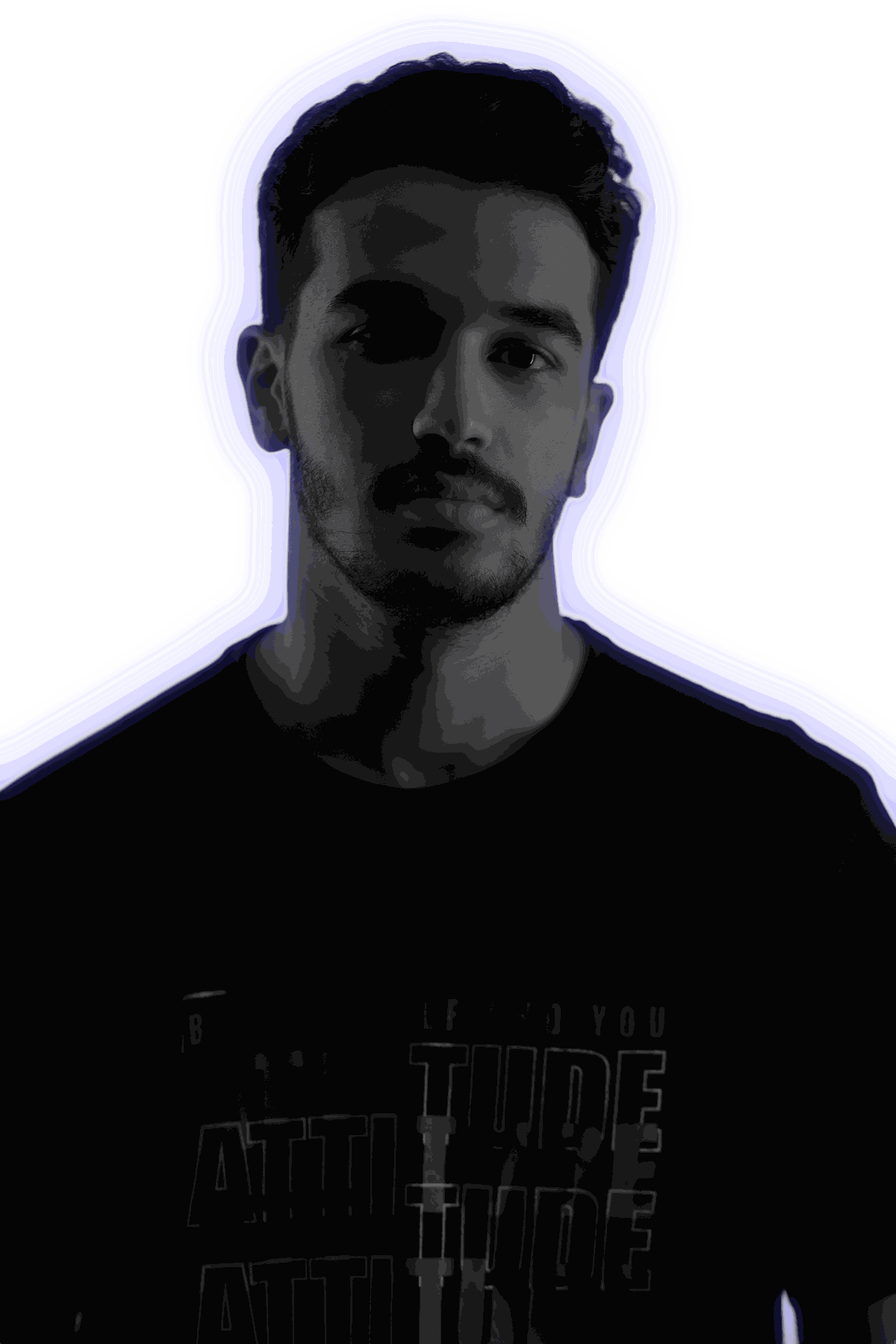
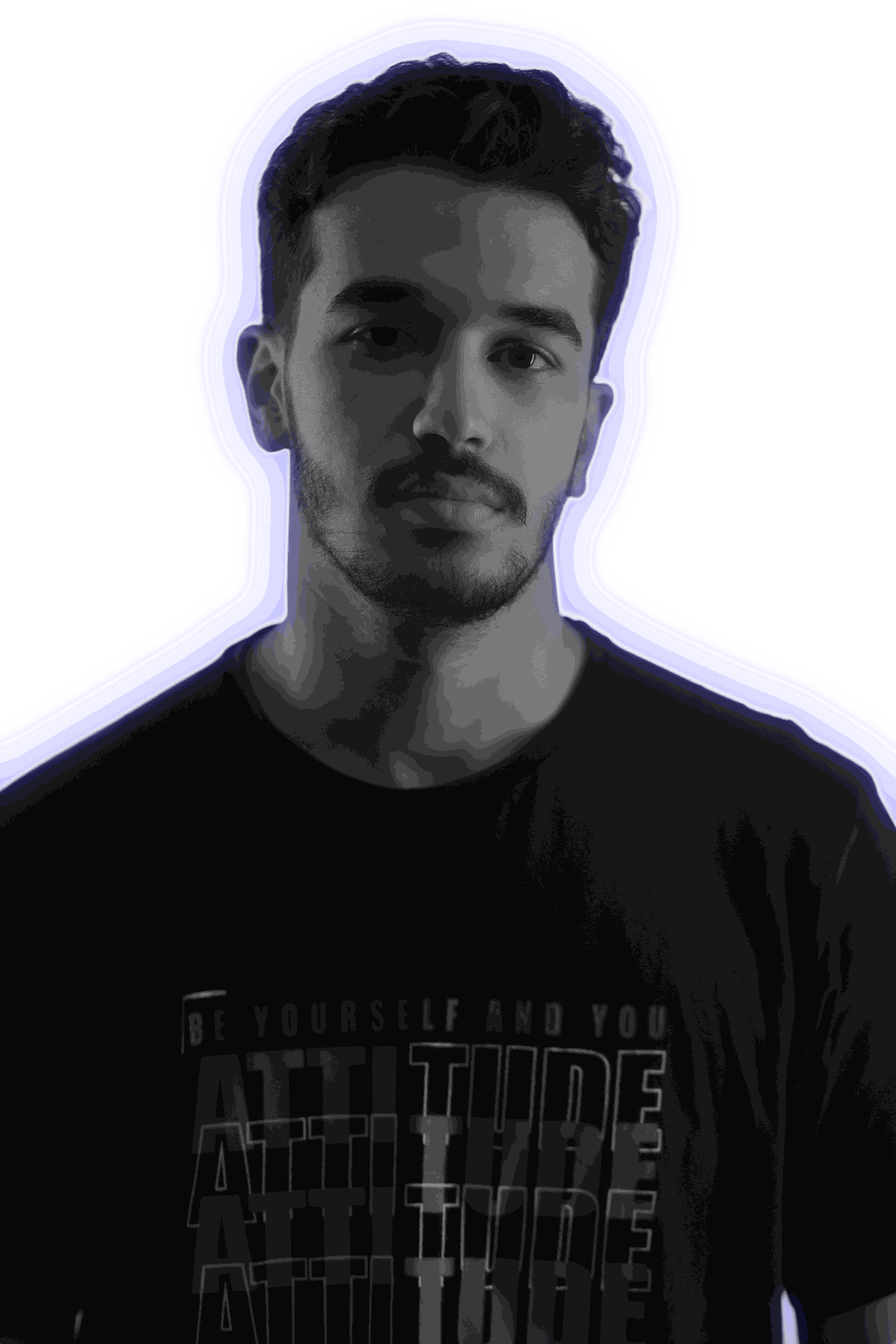
Preview: stats 150+ projects / 17+ clients, brighter portrait restored
Claude-Session: https://claude.ai/code/session_01Y8XmbK8w2zcHQaXEDeDyvM

diff --git a/ar.html b/ar.html
@@ -65,7 +65,7 @@ v.addEventListener('playing',start,{once:true});v.addEventListener('error',funct
 var p=v.play();if(p&&p.catch)p.catch(function(){start()});t.push(setTimeout(start,1400));t.push(setTimeout(go,6000));
 el.addEventListener('click',function(){go(true)});addEventListener('keydown',function(e){if(e.key==='Escape'||e.key==='Enter'||e.key===' ')go(true)});})();</script>
 <div class="cursor-halo" aria-hidden="true"></div><div class="scroll-progress" aria-hidden="true"></div><header><a class="brand" href="#home" aria-label="الصفحة الرئيسية — يوسف أبوقمر"><img src="assets/logo.png" alt=""><span>يوسف<br>أبوقمر<span class="dot">.</span></span></a><button class="menu-toggle" aria-label="فتح وإغلاق القائمة" aria-expanded="false" aria-controls="main-nav"><span>القائمة</span><span class="menu-icon" aria-hidden="true"><i></i><i></i></span></button><nav id="main-nav" aria-label="القائمة الرئيسية"><span class="nav-marker" aria-hidden="true"></span><a href="#work">الأعمال</a><a href="#who">عنّي</a><a href="#services">الخدمات</a><a href="#experience">الخبرات</a><a href="#contact">تواصل</a></nav><div class="contact-dropdown"><a class="lang-switch" href="./" hreflang="en" lang="en" aria-label="English version">EN</a><button class="nav-cta modern-action" id="talk-toggle" type="button" aria-expanded="false" aria-controls="talk-links">لنتحدث <span aria-hidden="true">↗</span></button><div id="talk-links" class="talk-panel" aria-label="تواصل مع يوسف" hidden></div></div></header>
-<main><section id="home" class="hero"><div class="editing-backdrop" aria-hidden="true"></div><div class="hero-top"><span class="location">من مصر · أعمل مع عملاء في كل مكان</span></div><div class="hero-composition"><div class="hero-copy"><div class="hero-identity"><p class="hero-role">مونتير <span>و</span> صانع محتوى</p><div class="hero-software" aria-label="برامج المونتاج"><span class="software-badge"><img src="assets/premiere-pro-original.svg" alt="" width="40" height="40"><span>Premiere Pro</span></span><span class="software-badge"><img src="assets/after-effects-original.svg" alt="" width="40" height="40"><span>After Effects</span></span></div></div><h1 class="snap-title" aria-label="لكل ثانية معنى."><span class="title-mask" aria-hidden="true"><span class="title-line">لكل</span></span><span class="title-mask" aria-hidden="true"><span class="title-line">ثانية</span></span><span class="title-mask accent" aria-hidden="true"><span class="title-line">معنى.</span></span></h1><div class="hero-stats" aria-label="أرقام"><div class="hero-stat" aria-label="أكثر من سنتين خبرة"><span class="stat-value" aria-hidden="true"><span data-count="2">٢</span><span>+</span></span><span class="stat-label">سنوات خبرة</span></div><div class="hero-stat" aria-label="أكثر من 200 مشروع"><span class="stat-value" aria-hidden="true"><span data-count="200">٢٠٠</span><span>+</span></span><span class="stat-label">مشروع</span></div><div class="hero-stat" aria-label="أكثر من 20 عميل"><span class="stat-value" aria-hidden="true"><span data-count="20">٢٠</span><span>+</span></span><span class="stat-label">عميل</span></div></div><div class="hero-bottom"><div class="hero-actions"><a class="cv-link" href="assets/Yousef-Abokamar-CV.pdf" download>تحميل السيرة الذاتية ↓</a></div><span class="tiny">اكتشف المزيد ↓</span></div></div><figure class="hero-portrait"><svg class="portrait-design" viewBox="0 0 500 700" fill="none" aria-hidden="true" focusable="false"><defs><linearGradient id="portrait-line" x1="20" y1="70" x2="480" y2="630" gradientUnits="userSpaceOnUse"><stop stop-color="#9e96ff" stop-opacity=".55"/><stop offset=".55" stop-color="#4c79ff" stop-opacity=".25"/><stop offset="1" stop-color="#766aff" stop-opacity="0"/></linearGradient></defs><g stroke="url(#portrait-line)" stroke-width="1.2" stroke-linecap="round"><path d="M32 132V86h48M420 86h48v46M32 560v46h48"/><path d="M452 198v286" stroke-dasharray="1 13"/><path d="M442 214h20M442 284h20M442 354h20M442 424h20"/><path d="M38 224h20M48 214v20M404 548h20M414 538v20"/><path d="M20 490h56M32 480v20M48 484v12M64 484v12"/><path d="M372 172h74"/></g><circle cx="452" cy="172" r="3" fill="#766aff" fill-opacity=".5"/><circle cx="48" cy="374" r="2" fill="#72a2ff" fill-opacity=".4"/></svg><picture><source srcset="assets/portrait-yousef.webp" type="image/webp"><img src="assets/portrait-yousef.png" alt="صورة يوسف أبوقمر" width="1200" height="1800" fetchpriority="high" decoding="async"></picture></figure></div><section id="who" class="hero-intro" aria-labelledby="intro-title"><div class="intro-body"><span class="eyebrow">من أنا</span><h2 id="intro-title" class="intro-title">يوسف. <em>مونتير فيديو.</em></h2><p class="intro-text">أنا <strong>يوسف أبوقمر</strong>، مونتير فيديو من مصر بخلفية معمارية. أعمل منذ <strong>أكثر من سنتين</strong> على مونتاج الريلز والفيديوهات الدعائية ومحتوى البراندات، مع <strong>Sorah Media Solutions</strong> ومع عملاء مباشرةً كمستقل.</p><p class="intro-text">وصل شغلي لبراندات في <strong>السعودية والإمارات والبحرين وعُمان</strong>، في مجالات العقارات والطب والرياضة والتكنولوجيا والفعاليات. وهذه الخلفية تنعكس على طريقة المونتاج: تكوين واضح، وإيقاع نظيف، وقصة تناسب كل براند.</p><div class="intro-row"><span class="intro-label">الأسواق</span><ul class="intro-markets"><li>السعودية</li><li>الإمارات</li><li>البحرين</li><li>عُمان</li><li>مصر</li></ul></div></div></section><div class="filmstrip landscape-filmstrip" role="region" aria-label="عرض الفيديوهات"><div class="filmstrip-track"></div></div></section>
+<main><section id="home" class="hero"><div class="editing-backdrop" aria-hidden="true"></div><div class="hero-top"><span class="location">من مصر · أعمل مع عملاء في كل مكان</span></div><div class="hero-composition"><div class="hero-copy"><div class="hero-identity"><p class="hero-role">مونتير <span>و</span> صانع محتوى</p><div class="hero-software" aria-label="برامج المونتاج"><span class="software-badge"><img src="assets/premiere-pro-original.svg" alt="" width="40" height="40"><span>Premiere Pro</span></span><span class="software-badge"><img src="assets/after-effects-original.svg" alt="" width="40" height="40"><span>After Effects</span></span></div></div><h1 class="snap-title" aria-label="لكل ثانية معنى."><span class="title-mask" aria-hidden="true"><span class="title-line">لكل</span></span><span class="title-mask" aria-hidden="true"><span class="title-line">ثانية</span></span><span class="title-mask accent" aria-hidden="true"><span class="title-line">معنى.</span></span></h1><div class="hero-stats" aria-label="أرقام"><div class="hero-stat" aria-label="أكثر من سنتين خبرة"><span class="stat-value" aria-hidden="true"><span data-count="2">٢</span><span>+</span></span><span class="stat-label">سنوات خبرة</span></div><div class="hero-stat" aria-label="أكثر من 150 مشروع"><span class="stat-value" aria-hidden="true"><span data-count="150">١٥٠</span><span>+</span></span><span class="stat-label">مشروع</span></div><div class="hero-stat" aria-label="أكثر من 17 عميل"><span class="stat-value" aria-hidden="true"><span data-count="17">١٧</span><span>+</span></span><span class="stat-label">عميل</span></div></div><div class="hero-bottom"><div class="hero-actions"><a class="cv-link" href="assets/Yousef-Abokamar-CV.pdf" download>تحميل السيرة الذاتية ↓</a></div><span class="tiny">اكتشف المزيد ↓</span></div></div><figure class="hero-portrait"><svg class="portrait-design" viewBox="0 0 500 700" fill="none" aria-hidden="true" focusable="false"><defs><linearGradient id="portrait-line" x1="20" y1="70" x2="480" y2="630" gradientUnits="userSpaceOnUse"><stop stop-color="#9e96ff" stop-opacity=".55"/><stop offset=".55" stop-color="#4c79ff" stop-opacity=".25"/><stop offset="1" stop-color="#766aff" stop-opacity="0"/></linearGradient></defs><g stroke="url(#portrait-line)" stroke-width="1.2" stroke-linecap="round"><path d="M32 132V86h48M420 86h48v46M32 560v46h48"/><path d="M452 198v286" stroke-dasharray="1 13"/><path d="M442 214h20M442 284h20M442 354h20M442 424h20"/><path d="M38 224h20M48 214v20M404 548h20M414 538v20"/><path d="M20 490h56M32 480v20M48 484v12M64 484v12"/><path d="M372 172h74"/></g><circle cx="452" cy="172" r="3" fill="#766aff" fill-opacity=".5"/><circle cx="48" cy="374" r="2" fill="#72a2ff" fill-opacity=".4"/></svg><picture><source srcset="assets/portrait-yousef.webp" type="image/webp"><img src="assets/portrait-yousef.png" alt="صورة يوسف أبوقمر" width="1200" height="1800" fetchpriority="high" decoding="async"></picture></figure></div><section id="who" class="hero-intro" aria-labelledby="intro-title"><div class="intro-body"><span class="eyebrow">من أنا</span><h2 id="intro-title" class="intro-title">يوسف. <em>مونتير فيديو.</em></h2><p class="intro-text">أنا <strong>يوسف أبوقمر</strong>، مونتير فيديو من مصر بخلفية معمارية. أعمل منذ <strong>أكثر من سنتين</strong> على مونتاج الريلز والفيديوهات الدعائية ومحتوى البراندات، مع <strong>Sorah Media Solutions</strong> ومع عملاء مباشرةً كمستقل.</p><p class="intro-text">وصل شغلي لبراندات في <strong>السعودية والإمارات والبحرين وعُمان</strong>، في مجالات العقارات والطب والرياضة والتكنولوجيا والفعاليات. وهذه الخلفية تنعكس على طريقة المونتاج: تكوين واضح، وإيقاع نظيف، وقصة تناسب كل براند.</p><div class="intro-row"><span class="intro-label">الأسواق</span><ul class="intro-markets"><li>السعودية</li><li>الإمارات</li><li>البحرين</li><li>عُمان</li><li>مصر</li></ul></div></div></section><div class="filmstrip landscape-filmstrip" role="region" aria-label="عرض الفيديوهات"><div class="filmstrip-track"></div></div></section>
 <div class="ticker" tabindex="0" aria-label="شريط المهارات. اسحب للاستكشاف."><div class="ticker-track"><span class="strip-hint">اسحب للاستكشاف ↔</span><span>سرد القصص</span><i class="ticker-symbol" aria-hidden="true"><img src="assets/logo.png" alt="" width="24" height="31"></i><span>مونتاج الفيديو</span><i class="ticker-symbol" aria-hidden="true"><img src="assets/logo.png" alt="" width="24" height="31"></i><span>موشن جرافيك</span><i class="ticker-symbol" aria-hidden="true"><img src="assets/logo.png" alt="" width="24" height="31"></i><span>صناعة المحتوى</span><i class="ticker-symbol" aria-hidden="true"><img src="assets/logo.png" alt="" width="24" height="31"></i><span aria-hidden="true">سرد القصص</span><i class="ticker-symbol" aria-hidden="true"><img src="assets/logo.png" alt="" width="24" height="31"></i><span aria-hidden="true">مونتاج الفيديو</span><i class="ticker-symbol" aria-hidden="true"><img src="assets/logo.png" alt="" width="24" height="31"></i><span aria-hidden="true">موشن جرافيك</span><i class="ticker-symbol" aria-hidden="true"><img src="assets/logo.png" alt="" width="24" height="31"></i><span aria-hidden="true">صناعة المحتوى</span><i class="ticker-symbol" aria-hidden="true"><img src="assets/logo.png" alt="" width="24" height="31"></i></div></div>
 <section id="work" class="section"><div class="editing-backdrop" aria-hidden="true"></div><div class="section-head"><div><span class="eyebrow">٠١ / أعمال مختارة</span><h2>صُنعت<br><em>لتُؤثّر.</em></h2></div><p>مجموعة من ريلز المحتوى والأفلام الدعائية والقصص المرئية.</p></div><div class="filters" aria-label="تصفية حسب النوع"><button class="active" data-type="All" aria-pressed="true">كل الأعمال</button><button data-type="Content Reels" aria-pressed="false">ريلز محتوى</button><button data-type="Promo Reels" aria-pressed="false">ريلز دعائية</button><button data-type="Promo Videos" aria-pressed="false">فيديوهات دعائية</button><label class="select-label">المجال <select id="category"><option value="All">كل المجالات</option></select></label></div><div class="work-controls"><label class="search-label">بحث <input type="search" id="work-search" placeholder="مشروع أو مجال…"></label><div class="view-controls" aria-label="طريقة العرض"><button id="grid-view" aria-pressed="true">شبكة ▦</button><button id="cinema-view" aria-pressed="false">سينما ▤</button></div></div><p id="results" class="tiny" aria-live="polite"></p><div id="category-jumps" class="category-jumps" aria-label="الانتقال لمجال"></div><div id="projects" class="projects"></div><noscript><ul class="noscript-work"><li><a href="assets/videos/1LARTjoNPa0jROnTMwBOfv8Z0u_AVnirV.mp4">DAR / Markland</a> — عقارات / فيديوهات دعائية</li><li><a href="assets/videos/1KIiBjM488M53fspq0vwLWPE-s2pa7otE.mp4">Engineering Graduation 2026</a> — فعاليات / فيديوهات دعائية</li><li><a href="assets/videos/1UfgcLgQG2W5bP_xNQP_wAmauaPER1eRB.mp4">I Plus</a> — رياضة / فيديوهات دعائية</li><li><a href="assets/videos/1nQfLRsGVL9XhNOq-fnRUfWLQmrEqlZcd.mp4">Interior Design / 01</a> — تصميم داخلي / ريلز محتوى</li><li><a href="assets/videos/1RePahRdkRGmkz-tcddZugPKxt6pxm3wd.mp4">Interior Design / 02</a> — تصميم داخلي / ريلز محتوى</li><li><a href="assets/videos/12omd3GJOGJJWhv8olYMtmvOtHIImv4ya.mp4">Narodne / 01</a> — تجاري / ريلز محتوى</li><li><a href="assets/videos/1HqcCV-P8kXwOggqVXdS9lxTu46S0yflU.mp4">Narodne / 02</a> — تجاري / ريلز محتوى</li><li><a href="assets/videos/18zJ1akewh5r2xSdIyM2W7405MKH1mldT.mp4">Medical Content / 01</a> — طبي / ريلز محتوى</li><li><a href="assets/videos/1MEuWs8MWK9OQE3UYNYU1B0_pwFkssYOL.mp4">Medical Content / 02</a> — طبي / ريلز محتوى</li><li><a href="assets/videos/1ndwIJoAUl-D1sjy6vWg8xyu-3K2oHehF.mp4">Dwaa</a> — طبي / ريلز محتوى</li><li><a href="assets/videos/11zYBEThEEDVteeRH6sZKDgzYw1cB2mqS.mp4">Tech Content</a> — تكنولوجيا / ريلز محتوى</li><li><a href="assets/videos/1yk7F5qSYZdy7hlmoKAMAB0KCu9Gt6IXJ.mp4">Kidix AI</a> — تكنولوجيا / ريلز محتوى</li><li><a href="assets/videos/1oPuGB0vPawAL86W-TY24Jzd-2636JDHs.mp4">Sports Promo / 01</a> — رياضة / ريلز دعائية</li><li><a href="assets/videos/1-C7PYZnIoM0lXCxbbrrW8rW8nS6rAEiw.mp4">Sports Promo / 02</a> — رياضة / ريلز دعائية</li><li><a href="assets/videos/1JNkq8a8tr1m-Z8V2leMyC213tG8tl66b.mp4">Stay Tuned</a> — تيزر / ريلز دعائية</li><li><a href="assets/videos/15PQvPuV9mxQ52AgFZVeaMwSg-xlCzPTL.mp4">El Salam</a> — فعاليات / فيديوهات دعائية</li><li><a href="assets/videos/1edh3CmXxmfi974iShhm6viDYmKG0mUS-.mp4">Event Film</a> — فعاليات / فيديوهات دعائية</li><li><a href="assets/videos/1Nyc3ADA3s9v55lXnT1uoV91zrHB56dDq.mp4">YTB A.E.</a> — فعاليات / فيديوهات دعائية</li><li><a href="assets/videos/1oGehzqQjlYaaojvVrpFkjyjUUVh8LKMB.mp4">Noll</a> — عقارات / فيديوهات دعائية</li><li><a href="assets/videos/1ahF5SVMppzt0v9GGR7YdTpb0YgdVgSqM.mp4">Shaqraa Project</a> — عقارات / فيديوهات دعائية</li></ul></noscript></section>
 

diff --git a/index.html b/index.html
@@ -65,7 +65,7 @@ v.addEventListener('playing',start,{once:true});v.addEventListener('error',funct
 var p=v.play();if(p&&p.catch)p.catch(function(){start()});t.push(setTimeout(start,1400));t.push(setTimeout(go,6000));
 el.addEventListener('click',function(){go(true)});addEventListener('keydown',function(e){if(e.key==='Escape'||e.key==='Enter'||e.key===' ')go(true)});})();</script>
 <div class="cursor-halo" aria-hidden="true"></div><div class="scroll-progress" aria-hidden="true"></div><header><a class="brand" href="#home" aria-label="Yousef Abokamar home"><img src="assets/logo.png" alt=""><span>YOUSEF<br>ABOKAMAR<span class="dot">.</span></span></a><button class="menu-toggle" aria-label="Toggle navigation" aria-expanded="false" aria-controls="main-nav"><span>Menu</span><span class="menu-icon" aria-hidden="true"><i></i><i></i></span></button><nav id="main-nav" aria-label="Main navigation"><span class="nav-marker" aria-hidden="true"></span><a href="#work">Work</a><a href="#who">About</a><a href="#services">Services</a><a href="#experience">Experience</a><a href="#contact">Contact</a></nav><div class="contact-dropdown"><a class="lang-switch lang-switch-ar" href="ar.html" hreflang="ar" lang="ar" aria-label="النسخة العربية">عربي</a><button class="nav-cta modern-action" id="talk-toggle" type="button" aria-expanded="false" aria-controls="talk-links">Let’s talk <span aria-hidden="true">↗</span></button><div id="talk-links" class="talk-panel" aria-label="Contact Yousef" hidden></div></div></header>
-<main><section id="home" class="hero"><div class="editing-backdrop" aria-hidden="true"></div><div class="hero-top"><span class="location">BASED IN EGYPT · WORKING EVERYWHERE</span></div><div class="hero-composition"><div class="hero-copy"><div class="hero-identity"><p class="hero-role">Video Editor <span>&</span> Content Creator</p><div class="hero-software" aria-label="Editing tools"><span class="software-badge"><img src="assets/premiere-pro-original.svg" alt="" width="40" height="40"><span>Premiere Pro</span></span><span class="software-badge"><img src="assets/after-effects-original.svg" alt="" width="40" height="40"><span>After Effects</span></span></div></div><h1 class="snap-title" aria-label="Every Second Matters."><span class="title-mask" aria-hidden="true"><span class="title-line">Every</span></span><span class="title-mask" aria-hidden="true"><span class="title-line">Second</span></span><span class="title-mask accent" aria-hidden="true"><span class="title-line">Matters.</span></span></h1><div class="hero-stats" aria-label="Career highlights"><div class="hero-stat" aria-label="More than 2 years of experience"><span class="stat-value" aria-hidden="true"><span data-count="2">2</span><span>+</span></span><span class="stat-label">Years of experience</span></div><div class="hero-stat" aria-label="More than 200 projects"><span class="stat-value" aria-hidden="true"><span data-count="200">200</span><span>+</span></span><span class="stat-label">Projects</span></div><div class="hero-stat" aria-label="More than 20 clients"><span class="stat-value" aria-hidden="true"><span data-count="20">20</span><span>+</span></span><span class="stat-label">Clients</span></div></div><div class="hero-bottom"><div class="hero-actions"><a class="cv-link" href="assets/Yousef-Abokamar-CV.pdf" download>Download CV ↓</a></div><span class="tiny">SCROLL TO DISCOVER ↓</span></div></div><figure class="hero-portrait"><svg class="portrait-design" viewBox="0 0 500 700" fill="none" aria-hidden="true" focusable="false"><defs><linearGradient id="portrait-line" x1="20" y1="70" x2="480" y2="630" gradientUnits="userSpaceOnUse"><stop stop-color="#9e96ff" stop-opacity=".55"/><stop offset=".55" stop-color="#4c79ff" stop-opacity=".25"/><stop offset="1" stop-color="#766aff" stop-opacity="0"/></linearGradient></defs><g stroke="url(#portrait-line)" stroke-width="1.2" stroke-linecap="round"><path d="M32 132V86h48M420 86h48v46M32 560v46h48"/><path d="M452 198v286" stroke-dasharray="1 13"/><path d="M442 214h20M442 284h20M442 354h20M442 424h20"/><path d="M38 224h20M48 214v20M404 548h20M414 538v20"/><path d="M20 490h56M32 480v20M48 484v12M64 484v12"/><path d="M372 172h74"/></g><circle cx="452" cy="172" r="3" fill="#766aff" fill-opacity=".5"/><circle cx="48" cy="374" r="2" fill="#72a2ff" fill-opacity=".4"/></svg><picture><source srcset="assets/portrait-yousef.webp" type="image/webp"><img src="assets/portrait-yousef.png" alt="Portrait of Yousef Abokamar" width="1200" height="1800" fetchpriority="high" decoding="async"></picture></figure></div><section id="who" class="hero-intro" aria-labelledby="intro-title"><div class="intro-body"><span class="eyebrow">WHO I AM</span><h2 id="intro-title" class="intro-title">Yousef. <em>Video editor.</em></h2><p class="intro-text">I’m <strong>Yousef Abokamar</strong>, a video editor from Egypt with a background in architecture. For more than <strong>two years</strong> I’ve been editing social reels, promotional videos and brand content, working with <strong>Sorah Media Solutions</strong> and with clients directly as a freelancer.</p><p class="intro-text">My work has reached brands in <strong>Saudi Arabia, the UAE, Bahrain and Oman</strong>, across real estate, medical, sports, tech and events. That background shapes how I edit: clear composition, clean rhythm and a story that fits each brand.</p><div class="intro-row"><span class="intro-label">MARKETS</span><ul class="intro-markets"><li>Saudi Arabia</li><li>UAE</li><li>Bahrain</li><li>Oman</li><li>Egypt</li></ul></div></div></section><div class="filmstrip landscape-filmstrip" role="region" aria-label="Landscape video showcase"><div class="filmstrip-track"></div></div></section>
+<main><section id="home" class="hero"><div class="editing-backdrop" aria-hidden="true"></div><div class="hero-top"><span class="location">BASED IN EGYPT · WORKING EVERYWHERE</span></div><div class="hero-composition"><div class="hero-copy"><div class="hero-identity"><p class="hero-role">Video Editor <span>&</span> Content Creator</p><div class="hero-software" aria-label="Editing tools"><span class="software-badge"><img src="assets/premiere-pro-original.svg" alt="" width="40" height="40"><span>Premiere Pro</span></span><span class="software-badge"><img src="assets/after-effects-original.svg" alt="" width="40" height="40"><span>After Effects</span></span></div></div><h1 class="snap-title" aria-label="Every Second Matters."><span class="title-mask" aria-hidden="true"><span class="title-line">Every</span></span><span class="title-mask" aria-hidden="true"><span class="title-line">Second</span></span><span class="title-mask accent" aria-hidden="true"><span class="title-line">Matters.</span></span></h1><div class="hero-stats" aria-label="Career highlights"><div class="hero-stat" aria-label="More than 2 years of experience"><span class="stat-value" aria-hidden="true"><span data-count="2">2</span><span>+</span></span><span class="stat-label">Years of experience</span></div><div class="hero-stat" aria-label="More than 150 projects"><span class="stat-value" aria-hidden="true"><span data-count="150">150</span><span>+</span></span><span class="stat-label">Projects</span></div><div class="hero-stat" aria-label="More than 17 clients"><span class="stat-value" aria-hidden="true"><span data-count="17">17</span><span>+</span></span><span class="stat-label">Clients</span></div></div><div class="hero-bottom"><div class="hero-actions"><a class="cv-link" href="assets/Yousef-Abokamar-CV.pdf" download>Download CV ↓</a></div><span class="tiny">SCROLL TO DISCOVER ↓</span></div></div><figure class="hero-portrait"><svg class="portrait-design" viewBox="0 0 500 700" fill="none" aria-hidden="true" focusable="false"><defs><linearGradient id="portrait-line" x1="20" y1="70" x2="480" y2="630" gradientUnits="userSpaceOnUse"><stop stop-color="#9e96ff" stop-opacity=".55"/><stop offset=".55" stop-color="#4c79ff" stop-opacity=".25"/><stop offset="1" stop-color="#766aff" stop-opacity="0"/></linearGradient></defs><g stroke="url(#portrait-line)" stroke-width="1.2" stroke-linecap="round"><path d="M32 132V86h48M420 86h48v46M32 560v46h48"/><path d="M452 198v286" stroke-dasharray="1 13"/><path d="M442 214h20M442 284h20M442 354h20M442 424h20"/><path d="M38 224h20M48 214v20M404 548h20M414 538v20"/><path d="M20 490h56M32 480v20M48 484v12M64 484v12"/><path d="M372 172h74"/></g><circle cx="452" cy="172" r="3" fill="#766aff" fill-opacity=".5"/><circle cx="48" cy="374" r="2" fill="#72a2ff" fill-opacity=".4"/></svg><picture><source srcset="assets/portrait-yousef.webp" type="image/webp"><img src="assets/portrait-yousef.png" alt="Portrait of Yousef Abokamar" width="1200" height="1800" fetchpriority="high" decoding="async"></picture></figure></div><section id="who" class="hero-intro" aria-labelledby="intro-title"><div class="intro-body"><span class="eyebrow">WHO I AM</span><h2 id="intro-title" class="intro-title">Yousef. <em>Video editor.</em></h2><p class="intro-text">I’m <strong>Yousef Abokamar</strong>, a video editor from Egypt with a background in architecture. For more than <strong>two years</strong> I’ve been editing social reels, promotional videos and brand content, working with <strong>Sorah Media Solutions</strong> and with clients directly as a freelancer.</p><p class="intro-text">My work has reached brands in <strong>Saudi Arabia, the UAE, Bahrain and Oman</strong>, across real estate, medical, sports, tech and events. That background shapes how I edit: clear composition, clean rhythm and a story that fits each brand.</p><div class="intro-row"><span class="intro-label">MARKETS</span><ul class="intro-markets"><li>Saudi Arabia</li><li>UAE</li><li>Bahrain</li><li>Oman</li><li>Egypt</li></ul></div></div></section><div class="filmstrip landscape-filmstrip" role="region" aria-label="Landscape video showcase"><div class="filmstrip-track"></div></div></section>
 <div class="ticker" tabindex="0" aria-label="Continuously moving skills strip. Drag to explore."><div class="ticker-track"><span class="strip-hint">DRAG TO EXPLORE ↔</span><span>STORYTELLING</span><i class="ticker-symbol" aria-hidden="true"><img src="assets/logo.png" alt="" width="24" height="31"></i><span>VIDEO EDITING</span><i class="ticker-symbol" aria-hidden="true"><img src="assets/logo.png" alt="" width="24" height="31"></i><span>MOTION GRAPHICS</span><i class="ticker-symbol" aria-hidden="true"><img src="assets/logo.png" alt="" width="24" height="31"></i><span>CONTENT CREATION</span><i class="ticker-symbol" aria-hidden="true"><img src="assets/logo.png" alt="" width="24" height="31"></i><span aria-hidden="true">STORYTELLING</span><i class="ticker-symbol" aria-hidden="true"><img src="assets/logo.png" alt="" width="24" height="31"></i><span aria-hidden="true">VIDEO EDITING</span><i class="ticker-symbol" aria-hidden="true"><img src="assets/logo.png" alt="" width="24" height="31"></i><span aria-hidden="true">MOTION GRAPHICS</span><i class="ticker-symbol" aria-hidden="true"><img src="assets/logo.png" alt="" width="24" height="31"></i><span aria-hidden="true">CONTENT CREATION</span><i class="ticker-symbol" aria-hidden="true"><img src="assets/logo.png" alt="" width="24" height="31"></i></div></div>
 <section id="work" class="section"><div class="editing-backdrop" aria-hidden="true"></div><div class="section-head"><div><span class="eyebrow">01 / SELECTED WORK</span><h2>Made to be<br><em>watched.</em></h2></div><p>A collection of content reels, promotional films and visual stories.</p></div><div class="filters" aria-label="Filter by format"><button class="active" data-type="All" aria-pressed="true">All work</button><button data-type="Content Reels" aria-pressed="false">Content reels</button><button data-type="Promo Reels" aria-pressed="false">Promo reels</button><button data-type="Promo Videos" aria-pressed="false">Promo videos</button><label class="select-label">Industry <select id="category"><option value="All">All industries</option></select></label></div><div class="work-controls"><label class="search-label">Search work <input type="search" id="work-search" placeholder="Project or industry…"></label><div class="view-controls" aria-label="Project layout"><button id="grid-view" aria-pressed="true">Grid ▦</button><button id="cinema-view" aria-pressed="false">Cinema ▤</button></div></div><p id="results" class="tiny" aria-live="polite"></p><div id="category-jumps" class="category-jumps" aria-label="Jump to work category"></div><div id="projects" class="projects"></div><noscript><ul class="noscript-work"><li><a href="assets/videos/1LARTjoNPa0jROnTMwBOfv8Z0u_AVnirV.mp4">DAR / Markland</a> — Real Estate / Promo Videos</li><li><a href="assets/videos/1KIiBjM488M53fspq0vwLWPE-s2pa7otE.mp4">Engineering Graduation 2026</a> — Events / Promo Videos</li><li><a href="assets/videos/1UfgcLgQG2W5bP_xNQP_wAmauaPER1eRB.mp4">I Plus</a> — Sports / Promo Videos</li><li><a href="assets/videos/1nQfLRsGVL9XhNOq-fnRUfWLQmrEqlZcd.mp4">Interior Design / 01</a> — Interior Design / Content Reels</li><li><a href="assets/videos/1RePahRdkRGmkz-tcddZugPKxt6pxm3wd.mp4">Interior Design / 02</a> — Interior Design / Content Reels</li><li><a href="assets/videos/12omd3GJOGJJWhv8olYMtmvOtHIImv4ya.mp4">Narodne / 01</a> — Commercial / Content Reels</li><li><a href="assets/videos/1HqcCV-P8kXwOggqVXdS9lxTu46S0yflU.mp4">Narodne / 02</a> — Commercial / Content Reels</li><li><a href="assets/videos/18zJ1akewh5r2xSdIyM2W7405MKH1mldT.mp4">Medical Content / 01</a> — Medical / Content Reels</li><li><a href="assets/videos/1MEuWs8MWK9OQE3UYNYU1B0_pwFkssYOL.mp4">Medical Content / 02</a> — Medical / Content Reels</li><li><a href="assets/videos/1ndwIJoAUl-D1sjy6vWg8xyu-3K2oHehF.mp4">Dwaa</a> — Medical / Content Reels</li><li><a href="assets/videos/11zYBEThEEDVteeRH6sZKDgzYw1cB2mqS.mp4">Tech Content</a> — Tech / Content Reels</li><li><a href="assets/videos/1yk7F5qSYZdy7hlmoKAMAB0KCu9Gt6IXJ.mp4">Kidix AI</a> — Tech / Content Reels</li><li><a href="assets/videos/1oPuGB0vPawAL86W-TY24Jzd-2636JDHs.mp4">Sports Promo / 01</a> — Sports / Promo Reels</li><li><a href="assets/videos/1-C7PYZnIoM0lXCxbbrrW8rW8nS6rAEiw.mp4">Sports Promo / 02</a> — Sports / Promo Reels</li><li><a href="assets/videos/1JNkq8a8tr1m-Z8V2leMyC213tG8tl66b.mp4">Stay Tuned</a> — Teasers / Promo Reels</li><li><a href="assets/videos/15PQvPuV9mxQ52AgFZVeaMwSg-xlCzPTL.mp4">El Salam</a> — Events / Promo Videos</li><li><a href="assets/videos/1edh3CmXxmfi974iShhm6viDYmKG0mUS-.mp4">Event Film</a> — Events / Promo Videos</li><li><a href="assets/videos/1Nyc3ADA3s9v55lXnT1uoV91zrHB56dDq.mp4">YTB A.E.</a> — Events / Promo Videos</li><li><a href="assets/videos/1oGehzqQjlYaaojvVrpFkjyjUUVh8LKMB.mp4">Noll</a> — Real Estate / Promo Videos</li><li><a href="assets/videos/1ahF5SVMppzt0v9GGR7YdTpb0YgdVgSqM.mp4">Shaqraa Project</a> — Real Estate / Promo Videos</li></ul></noscript></section>
 
